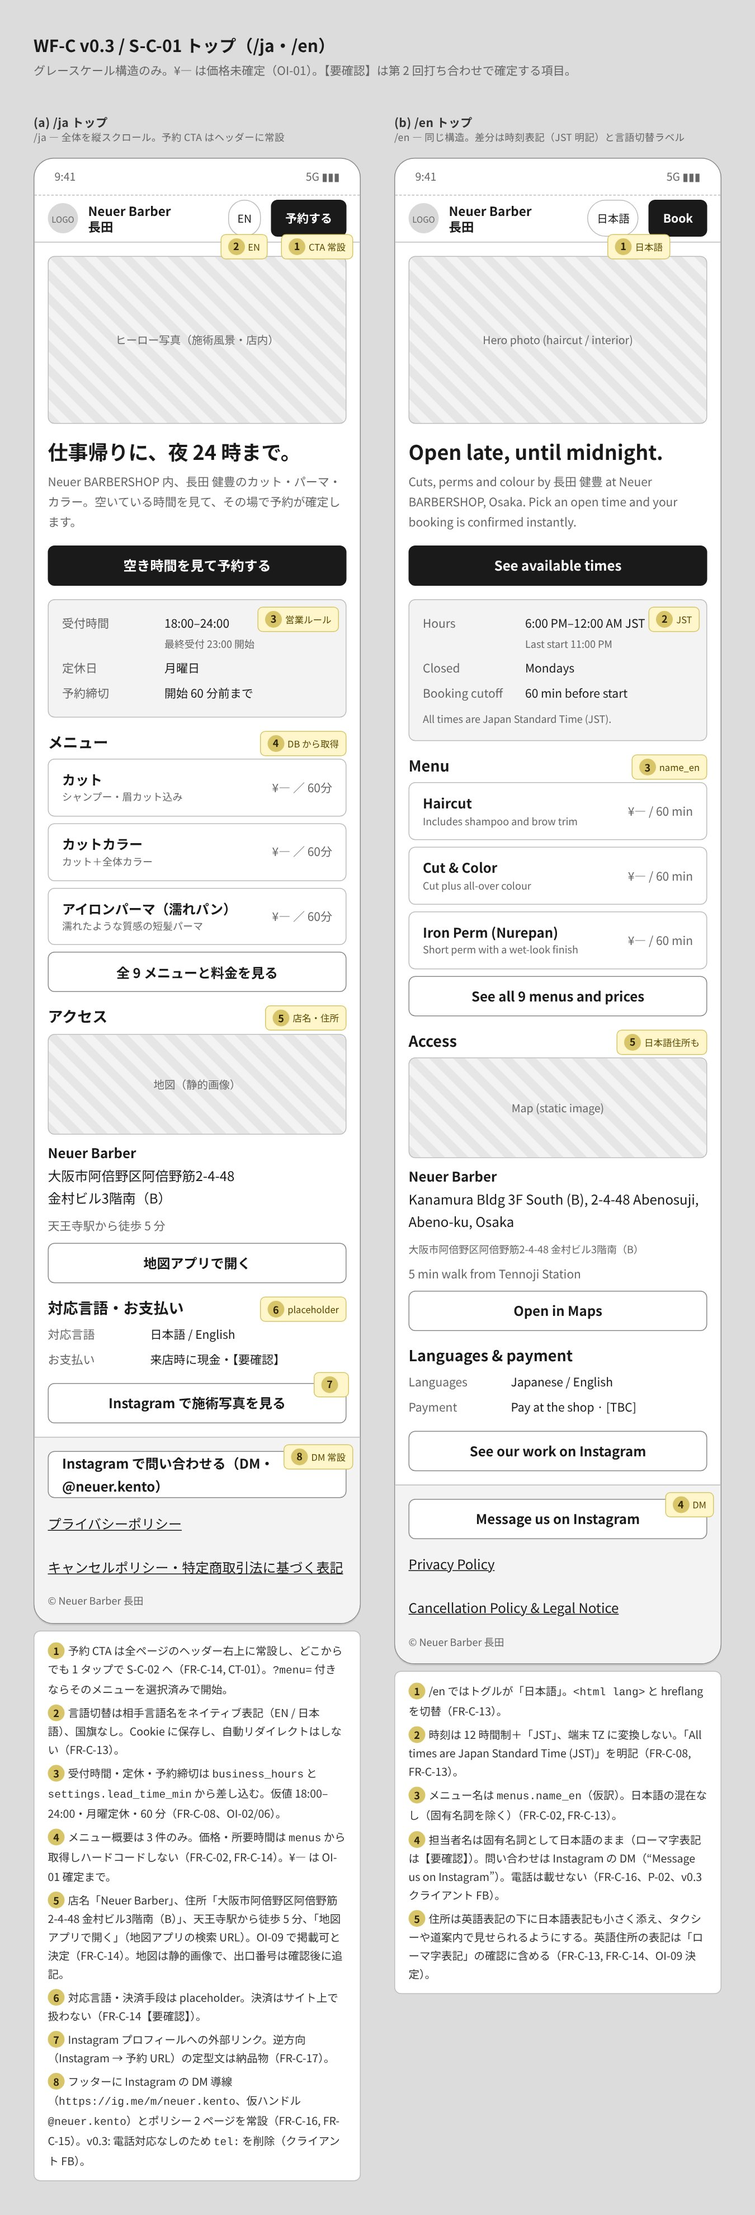
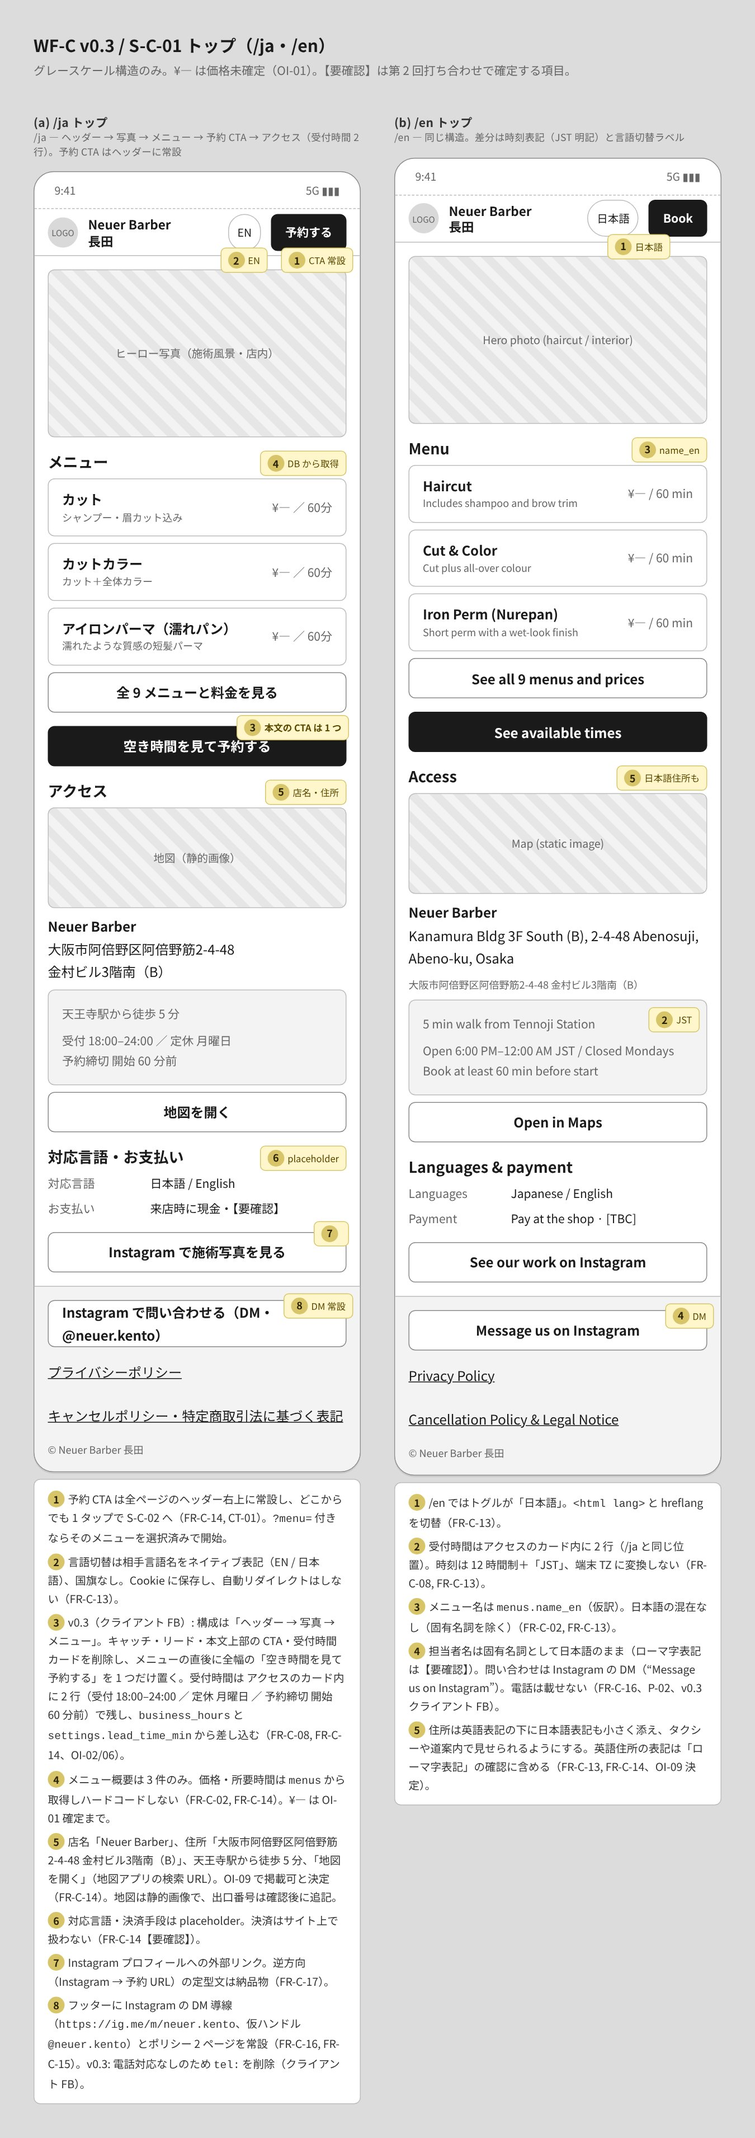
docs(design): base comps v0.2 and wireframes v0.3 — header→photo→menu top, month calendar, Instagram DM contact
Claude-Session: https://claude.ai/code/session_01KB5shAyoFXW5CevLsyefNu

diff --git a/docs/04_wireframes/screens/customer_01_top.html b/docs/04_wireframes/screens/customer_01_top.html
@@ -31,7 +31,7 @@
 
   <!-- ===== JA ===== -->
   <div class="artboard">
-    <p class="frame-title">(a) /ja トップ<small>/ja — 全体を縦スクロール。予約 CTA はヘッダーに常設</small></p>
+    <p class="frame-title">(a) /ja トップ<small>/ja — ヘッダー → 写真 → メニュー → 予約 CTA → アクセス（受付時間 2 行）。予約 CTA はヘッダーに常設</small></p>
     <div class="frame"><div class="screen">
       <div class="statusbar"><span>9:41</span><span>5G ▮▮▮</span></div>
       <header class="header anc">
@@ -44,19 +44,6 @@
       </header>
       <div class="content">
         <div class="img hero">ヒーロー写真（施術風景・店内）</div>
-        <div class="stack">
-          <h1>仕事帰りに、夜 24 時まで。</h1>
-          <p class="muted">Neuer BARBERSHOP 内、長田 健豊のカット・パーマ・カラー。空いている時間を見て、その場で予約が確定します。</p>
-        </div>
-        <a class="btn primary">空き時間を見て予約する</a>
-        <div class="card sunken anc">
-          <div class="kv">
-            <span class="k">受付時間</span><span>18:00–24:00<br><span class="caption">最終受付 23:00 開始</span></span>
-            <span class="k">定休日</span><span>月曜日</span>
-            <span class="k">予約締切</span><span>開始 60 分前まで</span>
-          </div>
-          <div class="note" style="top:8px;right:8px"><span class="n">3</span>営業ルール</div>
-        </div>
         <section class="section anc">
           <h2>メニュー</h2>
           <div class="card menu-mini"><div><h3>カット</h3><p class="caption">シャンプー・眉カット込み</p></div><div class="muted">¥— ／ 60分</div></div>
@@ -65,12 +52,13 @@
           <a class="btn secondary">全 9 メニューと料金を見る</a>
           <div class="note" style="top:0;right:0"><span class="n">4</span>DB から取得</div>
         </section>
+        <a class="btn primary anc">空き時間を見て予約する<div class="note" style="top:-14px;right:-4px"><span class="n">3</span>本文の CTA は 1 つ</div></a>
         <section class="section anc">
           <h2>アクセス</h2>
           <div class="img map">地図（静的画像）</div>
           <p><b>Neuer Barber</b><br>大阪市阿倍野区阿倍野筋2-4-48<br>金村ビル3階南（B）</p>
-          <p class="muted">天王寺駅から徒歩 5 分</p>
-          <a class="btn secondary">地図アプリで開く</a>
+          <div class="card sunken"><p class="muted">天王寺駅から徒歩 5 分</p><p class="muted">受付 18:00–24:00 ／ 定休 月曜日<br>予約締切 開始 60 分前</p></div>
+          <a class="btn secondary">地図を開く</a>
           <div class="note" style="top:0;right:0"><span class="n">5</span>店名・住所</div>
         </section>
         <section class="section anc">
@@ -94,9 +82,9 @@
     <ul class="notes-list">
       <li><span class="n">1</span>予約 CTA は全ページのヘッダー右上に常設し、どこからでも 1 タップで S-C-02 へ（FR-C-14, CT-01）。<code>?menu=</code> 付きならそのメニューを選択済みで開始。</li>
       <li><span class="n">2</span>言語切替は相手言語名をネイティブ表記（EN / 日本語）、国旗なし。Cookie に保存し、自動リダイレクトはしない（FR-C-13）。</li>
-      <li><span class="n">3</span>受付時間・定休・予約締切は <code>business_hours</code> と <code>settings.lead_time_min</code> から差し込む。仮値 18:00–24:00・月曜定休・60 分（FR-C-08、OI-02/06）。</li>
+      <li><span class="n">3</span>v0.3（クライアント FB）: 構成は「ヘッダー → 写真 → メニュー」。キャッチ・リード・本文上部の CTA・受付時間カードを削除し、メニューの直後に全幅の「空き時間を見て予約する」を 1 つだけ置く。受付時間は アクセスのカード内に 2 行（受付 18:00–24:00 ／ 定休 月曜日 ／ 予約締切 開始 60 分前）で残し、<code>business_hours</code> と <code>settings.lead_time_min</code> から差し込む（FR-C-08, FR-C-14、OI-02/06）。</li>
       <li><span class="n">4</span>メニュー概要は 3 件のみ。価格・所要時間は <code>menus</code> から取得しハードコードしない（FR-C-02, FR-C-14）。¥— は OI-01 確定まで。</li>
-      <li><span class="n">5</span>店名「Neuer Barber」、住所「大阪市阿倍野区阿倍野筋2-4-48 金村ビル3階南（B）」、天王寺駅から徒歩 5 分、「地図アプリで開く」（地図アプリの検索 URL）。OI-09 で掲載可と決定（FR-C-14）。地図は静的画像で、出口番号は確認後に追記。</li>
+      <li><span class="n">5</span>店名「Neuer Barber」、住所「大阪市阿倍野区阿倍野筋2-4-48 金村ビル3階南（B）」、天王寺駅から徒歩 5 分、「地図を開く」（地図アプリの検索 URL）。OI-09 で掲載可と決定（FR-C-14）。地図は静的画像で、出口番号は確認後に追記。</li>
       <li><span class="n">6</span>対応言語・決済手段は placeholder。決済はサイト上で扱わない（FR-C-14【要確認】）。</li>
       <li><span class="n">7</span>Instagram プロフィールへの外部リンク。逆方向（Instagram → 予約 URL）の定型文は納品物（FR-C-17）。</li>
       <li><span class="n">8</span>フッターに Instagram の DM 導線（<code>https://ig.me/m/neuer.kento</code>、仮ハンドル <code>@neuer.kento</code>）とポリシー 2 ページを常設（FR-C-16, FR-C-15）。v0.3: 電話対応なしのため <code>tel:</code> を削除（クライアント FB）。</li>
@@ -117,20 +105,6 @@
       </header>
       <div class="content">
         <div class="img hero">Hero photo (haircut / interior)</div>
-        <div class="stack">
-          <h1>Open late, until midnight.</h1>
-          <p class="muted">Cuts, perms and colour by 長田 健豊 at Neuer BARBERSHOP, Osaka. Pick an open time and your booking is confirmed instantly.</p>
-        </div>
-        <a class="btn primary">See available times</a>
-        <div class="card sunken anc">
-          <div class="kv">
-            <span class="k">Hours</span><span>6:00 PM–12:00 AM JST<br><span class="caption">Last start 11:00 PM</span></span>
-            <span class="k">Closed</span><span>Mondays</span>
-            <span class="k">Booking cutoff</span><span>60 min before start</span>
-          </div>
-          <p class="caption">All times are Japan Standard Time (JST).</p>
-          <div class="note" style="top:8px;right:8px"><span class="n">2</span>JST</div>
-        </div>
         <section class="section anc">
           <h2>Menu</h2>
           <div class="card menu-mini"><div><h3>Haircut</h3><p class="caption">Includes shampoo and brow trim</p></div><div class="muted">¥— / 60 min</div></div>
@@ -139,12 +113,13 @@
           <a class="btn secondary">See all 9 menus and prices</a>
           <div class="note" style="top:0;right:0"><span class="n">3</span>name_en</div>
         </section>
+        <a class="btn primary">See available times</a>
         <section class="section anc">
           <h2>Access</h2>
           <div class="img map">Map (static image)</div>
           <p><b>Neuer Barber</b><br>Kanamura Bldg 3F South (B), 2-4-48 Abenosuji, Abeno-ku, Osaka</p>
           <p class="caption">大阪市阿倍野区阿倍野筋2-4-48 金村ビル3階南（B）</p>
-          <p class="muted">5 min walk from Tennoji Station</p>
+          <div class="card sunken anc"><p class="muted">5 min walk from Tennoji Station</p><p class="muted">Open 6:00 PM–12:00 AM JST / Closed Mondays<br>Book at least 60 min before start</p><div class="note" style="top:8px;right:8px"><span class="n">2</span>JST</div></div>
           <a class="btn secondary">Open in Maps</a>
           <div class="note" style="top:0;right:0"><span class="n">5</span>日本語住所も</div>
         </section>
@@ -167,7 +142,7 @@
     </div></div>
     <ul class="notes-list">
       <li><span class="n">1</span>/en ではトグルが「日本語」。<code>&lt;html lang&gt;</code> と hreflang を切替（FR-C-13）。</li>
-      <li><span class="n">2</span>時刻は 12 時間制＋「JST」、端末 TZ に変換しない。「All times are Japan Standard Time (JST)」を明記（FR-C-08, FR-C-13）。</li>
+      <li><span class="n">2</span>受付時間はアクセスのカード内に 2 行（/ja と同じ位置）。時刻は 12 時間制＋「JST」、端末 TZ に変換しない（FR-C-08, FR-C-13）。</li>
       <li><span class="n">3</span>メニュー名は <code>menus.name_en</code>（仮訳）。日本語の混在なし（固有名詞を除く）（FR-C-02, FR-C-13）。</li>
       <li><span class="n">4</span>担当者名は固有名詞として日本語のまま（ローマ字表記は【要確認】）。問い合わせは Instagram の DM（“Message us on Instagram”）。電話は載せない（FR-C-16、P-02、v0.3 クライアント FB）。</li>
       <li><span class="n">5</span>住所は英語表記の下に日本語表記も小さく添え、タクシーや道案内で見せられるようにする。英語住所の表記は「ローマ字表記」の確認に含める（FR-C-13, FR-C-14、OI-09 決定）。</li>

diff --git a/docs/04_wireframes/customer_flow.md b/docs/04_wireframes/customer_flow.md
@@ -18,7 +18,7 @@
 |---|---|---|
 | v0.1 | 2026-10-10 | 初版（8 ファイル・27 状態） |
 | v0.2 | 2026-10-10 | EVAL-001 の WF 修正とクライアント決定 3 件を反映。(1) 予約の順序を「1 メニュー → 2 日時 → 3 お客様情報 → 4 確認」に変更し（OI-19 決定）、ルートを `/{locale}/book` → `/book/time` → `/book/info` → `/book/confirm` に、ファイルを 04〜08 に振り直した。お客様情報の画面 ID は S-C-02b（要件 v0.4・設計書 v0.2）。(2) 店名・住所・天王寺駅 徒歩 5 分・地図リンクをトップと完了画面に掲載（OI-09 決定）。(3) 完了画面のキャンセルリンクを「共有・コピー」にし、「カレンダーの予定からもキャンセルできます」を追加（CW-15）。ほかに、枠タップで次の段へ（CW-05）、凡例「× 予約できません」と理由ラベル 定休 / 休業 / 満席 / 締切（CW-09/10）、「今日・明日」（CW-04）、職業の自動前進と備考の同居（CW-11）、/en の 3 状態の追加（CW-03）、確認シートの文言（CW-16/17）、料金行の「変更」削除（HE-03）、404・エラーの電話の重複解消（HE-01）。8 ファイル・31 状態 |
-| v0.3 | 2026-10-12 | クライアント FB 3 件を反映（修正 2 回目）。(1) **トップの簡素化**: キャッチ・リード・本文 CTA・受付時間カードを削除し「ヘッダー → 写真 → メニュー」に。メニューの直後に全幅の「空き時間を見て予約する」を 1 つ置き、受付時間は アクセス内に 2 行（受付 18:00–24:00 ／ 定休 月曜日 ／ 予約締切 開始 60 分前）で残す（WF はカンプ DG-001 v0.2 に合わせて画面の構成のみ記述、§3）。(2) **日付選択を月カレンダーに**: 週ストリップを廃止し、月見出し「‹ 2026年10月 ›」・月曜始まりの曜日行・7 列のグリッド（日付＋◎ / × 理由）に置き換えた（S-C-03 の全状態）。過去日と 60 日先より後の日は記号なしの薄い文字で押せない、今日は枠、選択中は塗り。60 日の範囲に 1 日も入らない月への ‹ › は無効。状態 (f)「翌々月（60 日の範囲の端）」を追加。(3) **電話対応なし → Instagram の DM**: 予約フローのヘッダー「電話」→「Instagram」、完了画面「Instagram で問い合わせる」、キャンセル締切後「キャンセル締切を過ぎています。Instagram の DM でご連絡ください」＋Instagram ボタン、空きなしの日の電話導線を削除（次の空き日ボタンだけ）、フッター・ポリシー・404・エラー・確認画面の締切文を Instagram に。ハンドルは仮に `@neuer.kento`（DM リンク `https://ig.me/m/neuer.kento`）。お客様の電話番号の入力欄（予約の連絡先）は変更なし。8 ファイル・32 状態 |
+| v0.3 | 2026-10-12 | クライアント FB 3 件を反映（修正 2 回目）。(1) **トップの簡素化**: キャッチ・リード・本文 CTA・受付時間カードを削除し「ヘッダー → 写真 → メニュー」に。メニューの直後に全幅の「空き時間を見て予約する」を 1 つ置き、受付時間は アクセス内に 2 行（受付 18:00–24:00 ／ 定休 月曜日 ／ 予約締切 開始 60 分前）で残す（/ja・/en とも。カンプ DG-001 v0.2 と同じ構成）。「地図アプリで開く」はカンプに合わせて「地図を開く」に。(2) **日付選択を月カレンダーに**: 週ストリップを廃止し、月見出し「‹ 2026年10月 ›」・月曜始まりの曜日行・7 列のグリッド（日付＋◎ / × 理由）に置き換えた（S-C-03 の全状態）。過去日と 60 日先より後の日は記号なしの薄い文字で押せない、今日は枠、選択中は塗り。60 日の範囲に 1 日も入らない月への ‹ › は無効。状態 (f)「翌々月（60 日の範囲の端）」を追加。(3) **電話対応なし → Instagram の DM**: 予約フローのヘッダー「電話」→「Instagram」、完了画面「Instagram で問い合わせる」、キャンセル締切後「キャンセル締切を過ぎています。Instagram の DM でご連絡ください」＋Instagram ボタン、空きなしの日の電話導線を削除（次の空き日ボタンだけ）、フッター・ポリシー・404・エラー・確認画面の締切文を Instagram に。ハンドルは仮に `@neuer.kento`（DM リンク `https://ig.me/m/neuer.kento`）。お客様の電話番号の入力欄（予約の連絡先）は変更なし。8 ファイル・32 状態 |
 
 ### 表記ルール
 
@@ -110,9 +110,9 @@ flowchart TD
 
 - **構成（v0.3 クライアント FB）**: ヘッダー → 写真 → メニュー → 「空き時間を見て予約する」→ アクセス → 対応言語・お支払い → Instagram → フッター。キャッチ「仕事帰りに、夜 24 時まで。」・リード・その下の CTA・「会員登録は不要です」・受付時間カードは削除した。
 - 予約 CTA をヘッダー右上に常設し（ページ上部の主 CTA）、全ページから 1 タップで予約に入れる（FR-C-14, CT-01）。本文では**メニューの直後に全幅の「空き時間を見て予約する」を 1 つだけ**置く。メニューの次に日時が来る順序（OI-19 決定）と合う（CW-02）。
-- 受付時間は削らず、アクセスのカード内に 2 行（「受付 18:00–24:00 ／ 定休 月曜日」「予約締切 開始 60 分前」）で残す（FR-C-08, FR-C-14）。WF のアートボードは v0.2 の構図のまま（グレースケールの構造確認用）で、v0.3 の最終構成はカンプ `../05_design_comps/base/01_top.html`（DG-001 v0.2）が正。
+- 受付時間は削らず、アクセスのカード内に 2 行（「受付 18:00–24:00 ／ 定休 月曜日」「予約締切 開始 60 分前」）で残す（FR-C-08, FR-C-14）。見た目はカンプ `../05_design_comps/base/01_top.html`（DG-001 v0.2）。
 - メニューは 3 件の概要＋「全 9 メニュー」。価格・所要時間は DB から取得し、¥— は OI-01 確定まで（FR-C-02）。
-- アクセスに店名「Neuer Barber」、住所「大阪市阿倍野区阿倍野筋2-4-48 金村ビル3階南（B）」、天王寺駅から徒歩 5 分、「地図アプリで開く」を載せる（OI-09 決定、FR-C-14）。/en は英語住所の下に日本語住所を添え、タクシーや道案内で見せられるようにする。
+- アクセスに店名「Neuer Barber」、住所「大阪市阿倍野区阿倍野筋2-4-48 金村ビル3階南（B）」、天王寺駅から徒歩 5 分、「地図を開く」を載せる（OI-09 決定、FR-C-14）。/en は英語住所の下に日本語住所を添え、タクシーや道案内で見せられるようにする。
 - フッターの問い合わせは「Instagram で問い合わせる」（DM）。電話番号は載せない（v0.3、FR-C-16）。
 - /en は「日本語」トグル、12 時間制＋JST、問い合わせは “Message us on Instagram”。担当者名は固有名詞として日本語のまま（FR-C-13, FR-C-16）。
 

diff --git a/docs/05_design_comps/README.md b/docs/05_design_comps/README.md
@@ -6,15 +6,17 @@
 
 **2026-10-12、方向 A「ヘリテージ・ペーパー」を採用した。** B「モダン・バーバー」からセクション間の余白 48px、日付・時刻・料金の大きな Lato 数字、カード内の罫線を減らすこと、ヘッダーのワードマーク併記を取り入れる（DESIGN-001 §6 の「A＋B」）。C「ナイト・チェア」は顧客サイトには使わず、管理 PWA のダークテーマ（`tokens.css` の `[data-theme="dark"]`）の素材にする。決定内容と仕様は `design_guide.md`（DG-001）。
 
+**ベース v0.2 承認待ち（2026-10-12）。** ベース v0.1 へのクライアント FB 3 件（最終。ほかは承認済み）を反映した: (1) トップを「ヘッダー → 写真 → メニュー」に簡素化し、メニュー直後に全幅の「空き時間を見て予約する」、受付時間はアクセスカード内に 2 行、(2) 日付選択を週ストリップから月カレンダー（月曜始まり、60 日先まで）に、(3) 電話対応なしのため顧客側の電話導線をすべて Instagram の DM（仮 `@neuer.kento`）に。`tokens.css` と視覚言語は変更なし。WF も WF-C / WF-A v0.3 で同時に更新した。
+
 ## ファイル
 
 | ファイル | 内容 |
 |---|---|
 | `design_direction.md` | DESIGN-001 デザイン方向案 v0.1（3 案の説明、パレット、推奨、質問、コントラスト検証表） |
-| `design_guide.md` | **DG-001 デザインガイド v0.1**（決定事項、トークン表、タイポグラフィ、スペーシング、コンポーネント仕様、画像・ロゴ、アクセシビリティ確認結果、モーション、展開カンプへの申し送り、WF v0.2 との差分、未決） |
+| `design_guide.md` | **DG-001 デザインガイド v0.2**（変更履歴、決定事項、トークン表、タイポグラフィ、スペーシング、コンポーネント仕様、画像・ロゴ、アクセシビリティ確認結果、モーション、展開カンプへの申し送り、WF v0.2 との差分、未決） |
 | `tokens.css` | **3 層トークン**（プリミティブ → セマンティック＋ダーク → Tailwind v4 `@theme inline` への接続例）と紙テクスチャのユーティリティ `.paper`。トークン値の正本 |
-| `base/01_top.html` / `.jpg` | ベースデザイン S-C-01 トップ /ja（390px、full page）。`01_top_desktop.jpg` は 1280px 幅の表示確認 |
-| `base/02_time.html` / `.jpg` | ベースデザイン S-C-03 ② 日時を選ぶ /ja 状態 (a)（full page） |
+| `base/01_top.html` / `.jpg` | ベースデザイン S-C-01 トップ /ja（390px、full page。ヘッダー → 写真 → メニュー → 予約 CTA → アクセス）。`01_top_desktop.jpg` は 1280px 幅の表示確認 |
+| `base/02_time.html` / `.jpg` | ベースデザイン S-C-03 ② 日時を選ぶ /ja 状態 (a)（月カレンダー、10/13 を選択。full page） |
 | `base/03_done.html` / `.jpg` | ベースデザイン S-C-05 予約完了 /ja（390×844 にスクロールなしで収まる。実測 809px） |
 | `base/base_contact_sheet.jpg` | 3 画面の上部 1200px を横に並べた一覧（1596px 幅） |
 | `style_tiles/A_heritage_paper.html` / `.jpg` | A「ヘリテージ・ペーパー」: ベージュ紙 `#f4ecdd`＋えんじ `#7c0000`、ブランドに忠実（**採用**） |
@@ -28,9 +30,9 @@
 
 - 各 HTML は実際の画面そのもの（アートボードの枠や注記なし）。`../tokens.css` と Google Fonts（Lato 400/700、Noto Sans JP variable）だけを読み込み、外部 JS なし。部品の CSS は各 HTML に書き、色・余白・角丸・時間はトークンだけを参照する。
 - ロゴは `../../research/reference/neuer_logo.png` を相対パスで参照する（`base/` から開くこと）。CSS filter でチャコール単色にしている。
-- 写真・地図は CSS で描いたプレースホルダー（写真素材の決定待ち）。料金は `¥—`（OI-01）、電話番号は `06-xxxx-xxxx`（OI-10）。
+- 写真・地図は CSS で描いたプレースホルダー（写真素材の決定待ち）。料金は `¥—`（OI-01）。問い合わせは Instagram の DM（仮ハンドル `@neuer.kento`、`https://ig.me/m/neuer.kento`）で、電話番号は載せない。
 - JPEG は Playwright（viewport 390×844、deviceScaleFactor 3、`document.fonts.ready` を待ち、Lato と Noto Sans JP の読み込みを `document.fonts.check` と FontFace の状態で確認）で PNG に描画し、品質 88 で変換した。01・02 は full page、03 は viewport。
-- 検証（すべて合格）: 全ての文字・枠線・アイコン・CTA の面のコントラスト（紙の上はテクスチャの最暗ピクセルで判定）、操作要素 44px 以上、390px と 320px で横スクロールなし、完了画面 ≤ 844px、`prefers-reduced-motion`、紙テクスチャの輝度の幅 ≤ 7.5%（実測 7.28%）。結果は DG-001 §7。
+- 検証（すべて合格）: 全ての文字・枠線・アイコン・CTA の面のコントラスト（紙の上はテクスチャの最暗ピクセルで判定）、操作要素 44px 以上、390px と 320px で横スクロールなし、完了画面 ≤ 844px、`prefers-reduced-motion`、紙テクスチャの輝度の幅 ≤ 7.5%（実測 7.28%）。v0.2 で再検証（2026-10-12）: 文字の最小 4.88:1、操作要素 01/02/03 = 11/30/9 個すべて 44px 以上、完了画面 809px。結果は DG-001 §7。
 
 ### スタイルタイル（`style_tiles/`）
 
